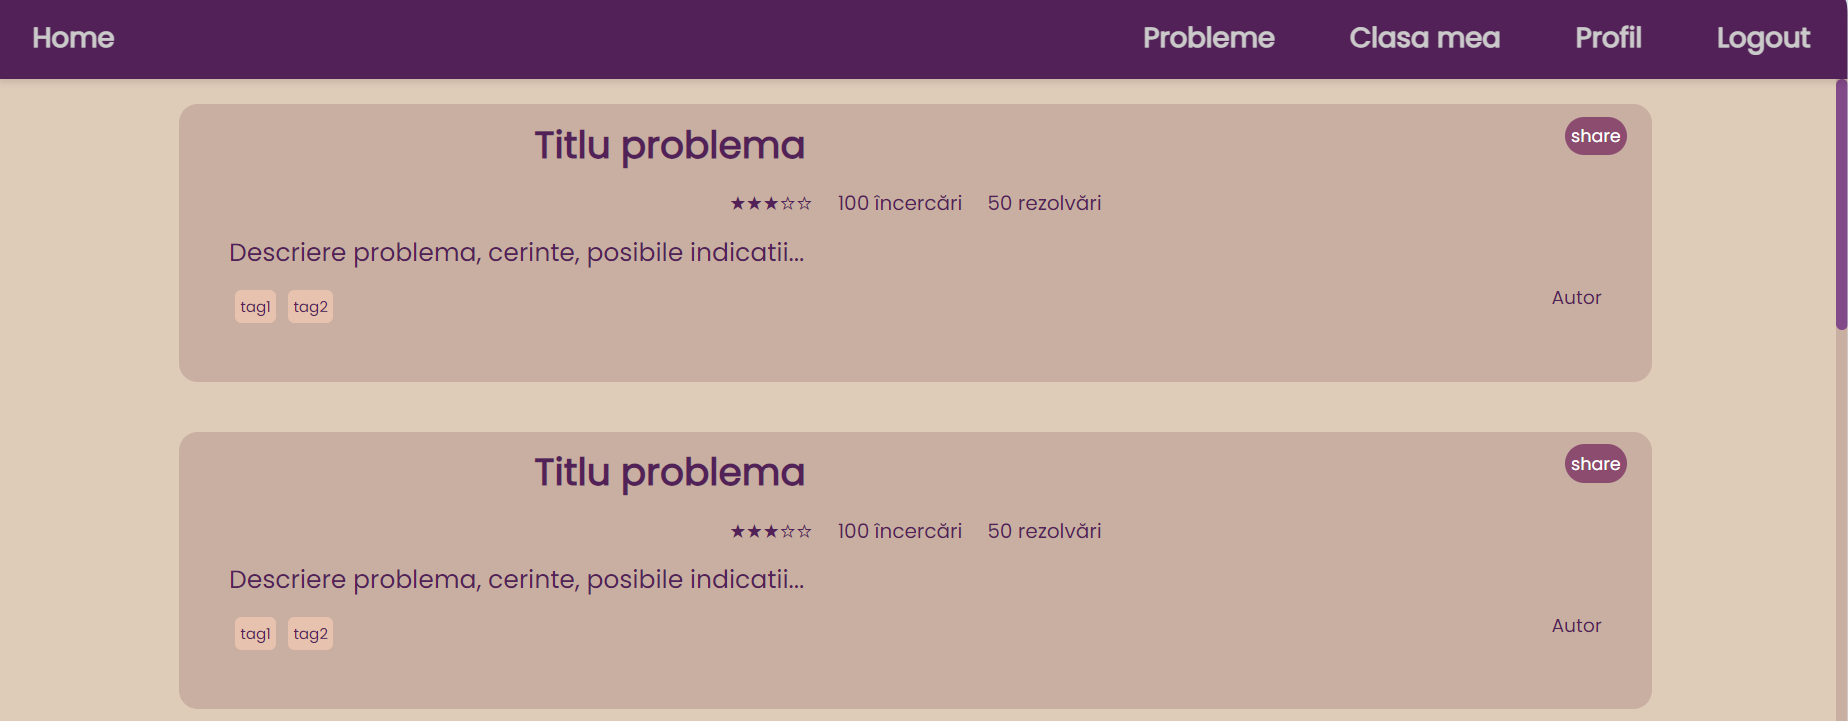
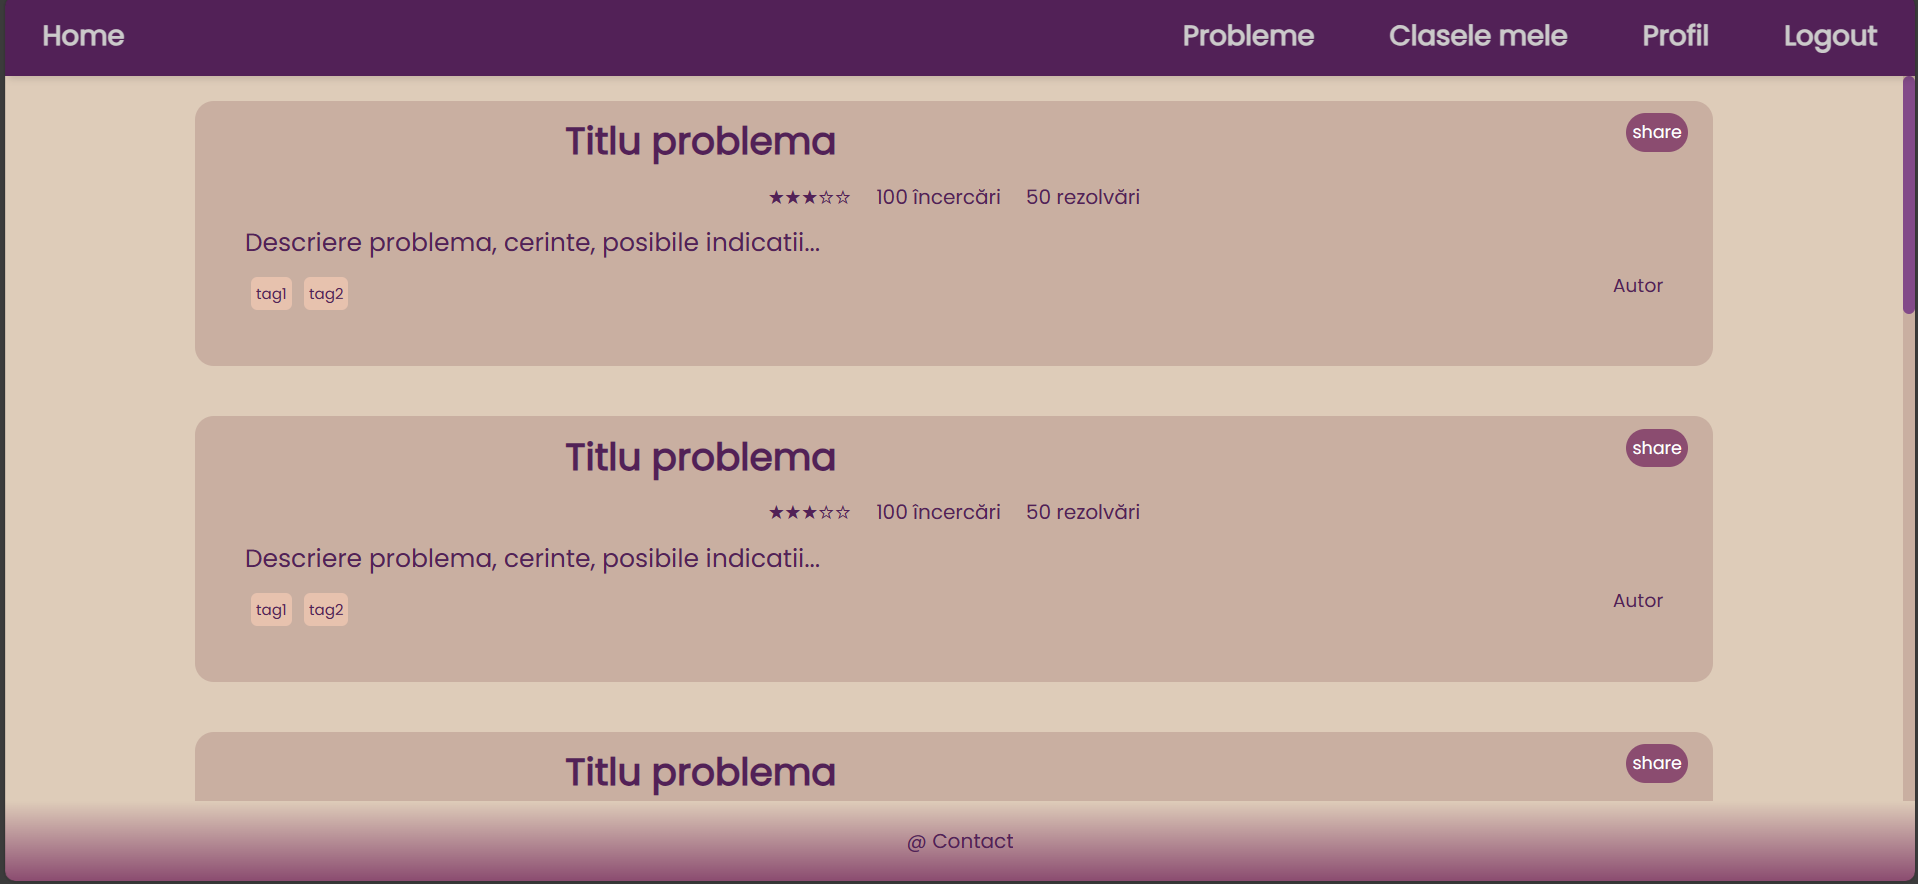
documentatie

diff --git a/Documentatie/specifications.html b/Documentatie/specifications.html
@@ -22,11 +22,11 @@
             Elevii pot vizualiza
             aceste probleme atât înregistrându-se, cât și fără a fi înregistrati, iar rezolvarea acestora presupune
             apartenența la o clasă
-            cu un profesor asignat și trimiterea soluțiilor respective spre a fi corectate de către profesor. Profesorii
-            vor avea
+            cu un profesor asignat și trimiterea soluțiilor respective spre a fi corectate de către profesor.
+             Acestia vor putea lasa comentarii pentru colegi la fiecare problema si vor putea oferi un rating de la 1 la 5 stele pentru ea.
+             Fiecare problema poate fi exportata folosind butonul de share. Profesorii vor avea
             posibilitatea să creeze și să administreze clase, să adauge elevi în aceste clase și să atribuie teme
-            elevilor prin selectarea
-            sau propunerea de probleme existente în aplicație. Ei vor putea, de asemenea, să evalueze soluțiile trimise
+            elevilor prin propunerea sau selectarea de probleme existente în aplicație. Ei vor putea, de asemenea, să evalueze soluțiile trimise
             de elevi și să ofere
             feedback individual. Pe lângă funcționalitatea de bază, aplicația va genera rapoarte care oferă statistici
             detaliate pentru
@@ -34,7 +34,7 @@
             fost încercate. De
             asemenea, vor exista rapoarte pentru fiecare problemă în parte, care vor oferi informații despre numărul de
             utilizatori care au
-            încercat-o, câți au reușit să o rezolve și alte date relevante.</p>
+            încercat-o, câți au reușit să o rezolve și ratingul care a fost acordat de elevi.</p>
         <p> Astfel, pe lângă scopul de a furniza un mediu interactiv și eficient pentru învățarea și practicarea
             programării pentru elevii
             de liceu, aplicația facilitează comunicarea și colaborarea între elevi și profesori și oferă o modalitate
@@ -43,9 +43,9 @@
 
         <h3>1.2. Publicul vizat</h3>
         <p> Platforma noastră va fi destinată în primul rând elevilor care studiază informatica în liceu și gimnaziu, studenților care doresc
-            să aprofundeze noțiunile prin exersare, și până la urmă oricăror pasionați și care doresc să învețe. Administratorii paginii vor
-            avea orice rol, se vor asigura de buna funcționare a site-ului și că legătura elevi-profesori comunică cât mai eficient. Nu în ultimul
-            rând, profesorul, este cel care evaluează elevii, le propune teme, comunică cu aceștia prin intermediul platformei despre soluții mai optime 
+            să aprofundeze noțiunile prin exersare, și până la urmă oricăror pasionați care își doresc să învețe mai mult. Administratorii paginii vor
+            avea orice rol, se vor asigura de buna funcționare a site-ului și că legătura elevi-profesor implică o comunicare eficientă. Nu în ultimul
+            rând, profesorul, este cel care evaluează elevii, le propune teme, comunică cu aceștia prin intermediul platformei despre soluții optime 
             la rezolvări. Platforma este una potrivită atât pentru elevii care doresc să lucreze cât mai mult, cât și pentru profesori pentru a evalua 
             cât mai ușor munca elevilor.
         </p>
@@ -60,12 +60,12 @@
             
             <section id="creare-gestionare-clase">
                 <h2>Crearea și Gestionarea Claselor:</h2>
-                <p>Profesorii pot construi clase și adăuga elevii în aceste clase folosind identificatori precum email sau username.</p>
+                <p>Profesorii pot crea clase și adăuga elevii în aceste clase folosind identificatori precum email sau username.</p>
             </section>
             
             <section id="atribuire-teme">
                 <h2>Atribuirea de Teme:</h2>
-                <p>Profesorii pot atribui teme elevilor fie propunând probleme noi, fie selectând dintr-o bază de date existentă de probleme.</p>
+                <p>Profesorii pot atribui teme elevilor fie propunând probleme noi, ce vor fi aprobate de administratori, fie selectând dintr-o bază de date existentă de probleme.</p>
             </section>
             
             <section id="rezolvare-evaluare">
@@ -110,7 +110,7 @@
                 care leagă celelalte pagini între ele într-o structură arborescentă.
             </p>
             <img class="img5" src="img/img5.png" alt="altcv">
-            <p> Pagina conține o abstractizare a principalelor funcționalități produsului software, afișate in secțiuni în cadrul paginii. Contând foarte mult
+            <p> Pagina conține o abstractizare a principalelor funcționalități ale produsului software, afișate în secțiuni în cadrul paginii. Contând foarte mult
                 modul de detaliere a funcționalităților aplicației web, s-a ales acest mod de afișare a secțiunilor pe pagină și practic așa ne asigurăm că
                 un utilizator nou înregistrat va avea acces la toate informațiile de care are nevoie să se acomodeze cu modul de lucru. Considerăm că un meniu
                 detaliat (în care să se menționeze cât mai multe detalii despre site) atinge orice obiective din partea producătorilor software. 
@@ -147,7 +147,7 @@
                 de admin - care deține și un rol de a accepta cererea de introducere a problemei în sistem.
             </p>
             <img class="img10" src="img/img10.png" alt="altcv">
-            <p>Această pagină se regăsește din mneniul de căutare probleme, la secțiunea de "probleme clasa 9". Acest mod afișează într-un format elegant 
+            <p>Această pagină se regăsește din meniul de căutare probleme, la secțiunea de "probleme clasa 9". Acest mod afișează într-un format elegant 
                 toate categoriile de probleme, iar pe fiecare din aceste categorii găsindu-se mai multe probleme. Pentru fiecare problemă se va putea vizualiza
                 separat anumite statistici care țin de rating-ul oferit de elevi, de câți utilizatori au încercat să o rezolve și câți au rezolvat-o cu
                 succes.
@@ -155,19 +155,30 @@
             <img class="img11" src="img/img11.png" alt="altcv">
             <p>Butonul de share va fi asignat exportului într-un format open (XML / JSON / CSV, etc.). </p>
             <h4>Clasele mele</h4>
+            <img class="img12" src="img/img12.png" alt="altcv">
             <p> În cadrul acestei componente a aplicației este realizată interacțiunea dintre elevi și profesor. Conform cerințelor, un profesor poate deține una
                 sau mai multe clase, acesta având un rol de a manageria clasa/clasele respective și de a lucra eficient cu elevii săi. De asemenea, un elev poate
                 aparține la mai multe clase, acesta rezolvând independent temele pentru o clasă față de cealaltă. Am optat în modul acesta de 
                 preferințe deoarece, în practică un elev ar putea aparține de clasa la care studiază, si totodată se mai poate crea o clasă pentru 
-                elevii care participă la concursuri și olimpiade și de care elevul să aparțină simultan. Printre alte funcții, elevul poate ieși dintr-o clasă,
-                sau dat afară de către profesor, adăugarea la o clasă a unui elev o face explicit profesorul.
+                elevii care participă la concursuri și olimpiade și de care elevul să aparțină simultan. Profesorul este cel care adaugă elevi într-o clasă pe baza usernameului.
+                Tot acesta, apăsând pe butonul + poate crea o nouă clasă.
             </p>
-            <p>Strând legată de componenta claselor este pagina cu "Temele mele", unde un profesor fie poate propune probleme spre rezolvare, fie poate să aleagă din
-                lista de probleme existente în sistem. O tema are un anumit deadline, poate fi pe parcurs modificată prin adăugarea de alte probleme sau modificare
-                deadline, se vor putea adăuga comentarii din partea tuturor membrilor clasei respective, iar în urma finalizării termenului-limită, profesorul poate
-                accesa secțiunea cu răspunsurile primite la probleme și să evalueze munca elevilor.
+            <img class="img13" src="img/img13.png" alt="altcv">
+            <p>Apăsând pe fiecare clasă, profesorul poate vizualiza elevii, poate adăuga alti elevi și poate accesa secțiunea de teme pentru clasa respectivă.</p>
+            <img class="img14" src="img/img14.png" alt="altcv">
+            <p>Strâns legată de componenta claselor este pagina cu "Temele mele", unde un profesor fie poate propune probleme spre rezolvare, fie poate să aleagă din
+                lista de probleme existente în sistem. O tema are un anumit deadline, poate fi pe parcurs modificată prin adăugarea de alte probleme, 
+                se vor putea adăuga comentarii din partea tuturor membrilor clasei respective, iar în urma finalizării termenului-limită, profesorul poate
+                accesa secțiunea cu răspunsurile primite la probleme și să evalueze munca elevilor, lăsând și feedback la fiecare problemă rezolvată de aceștia.
             </p>
-            <img class="img12" src="img/img12.png" alt="altcv">
+            <img class="img15" src="img/img15.png" alt="altcv">
+            <img class="img16" src="img/img16.png" alt="altcv">
+            <img class="img17" src="img/img17.png" alt="altcv">
+            <img class="img18" src="img/img18.png" alt="altcv">
+            <img class="img19" src="img/img19.png" alt="altcv">
+            <img class="img20" src="img/img20.png" alt="altcv">
+
+           
     </section>
 </body>
 

diff --git a/InformatiX/src/views/lista_pb.html b/InformatiX/src/views/lista_pb.html
@@ -42,14 +42,14 @@
                 </svg></a></li>
             <li><a href="logged_page.html" onclick=hideSidebar()>Home</a></li>
             <li><a href="probleme.html" onclick=hideSidebar()>Probleme</a></li>
-            <li><a href="clasele_mele.html" onclick="hideSidebar()">Clasa mea</a></li>
+            <li><a href="clasele_mele.html" onclick="hideSidebar()">Clasele mele</a></li>
             <li><a href="my_profile.html" onclick="hideSidebar()">Profil</a></li>
             <li><a href="index.html" onclick="hideSidebar()">Logout</a></li>
           </ul>
           <ul class="menu">
             <li><a href="logged_page.html">Home</a></li>
             <li class="hideOnMobile"><a href="probleme.html">Probleme</a></li>
-            <li class="hideOnMobile"><a href="clasele_mele.html">Clasa mea</a></li>
+            <li class="hideOnMobile"><a href="clasele_mele.html">Clasele mele</a></li>
             <li class="hideOnMobile"><a href="my_profile.html">Profil</a></li>
             <li class="hideOnMobile"><a href="index.html">Logout</a></li>
             <li class="menu-button" onclick=showSidebar()><a href="#"><svg xmlns="http://www.w3.org/2000/svg" height="26"
